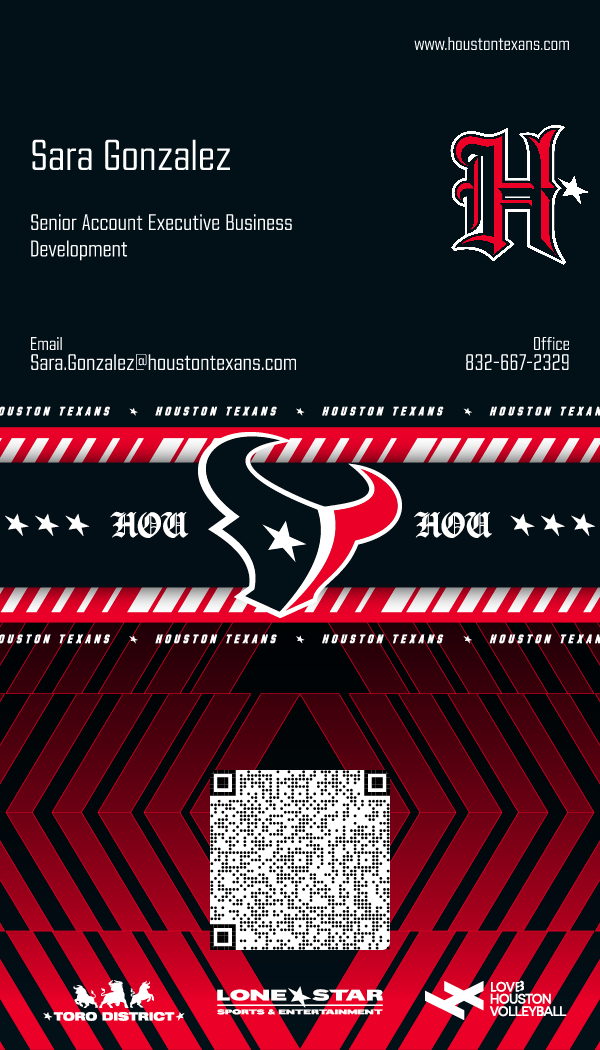
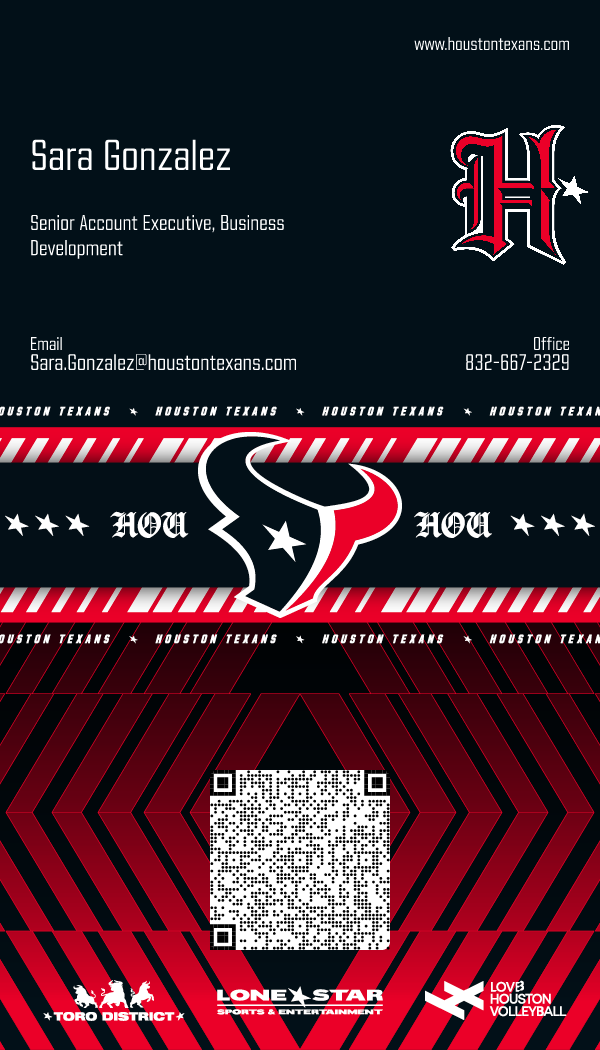
Regenerate card for Sara Gonzalez

Changed region(s): [[0.06, 0.1829, 0.48, 0.2438]]

diff --git a/p/e3164f3d.html b/p/e3164f3d.html
@@ -4,9 +4,9 @@
   <meta charset="UTF-8">
   <meta name="viewport" content="width=device-width, initial-scale=1.0">
   <title>Sara Gonzalez — Houston Texans</title>
-  <meta name="description" content="Contact Sara Gonzalez, Senior Account Executive Business Development at Houston Texans">
+  <meta name="description" content="Contact Sara Gonzalez, Senior Account Executive, Business Development at Houston Texans">
   <meta property="og:title" content="Sara Gonzalez — Houston Texans">
-  <meta property="og:description" content="Senior Account Executive Business Development">
+  <meta property="og:description" content="Senior Account Executive, Business Development">
   <link rel="preconnect" href="https://fonts.googleapis.com">
   <link href="https://fonts.googleapis.com/css2?family=Inter:wght@400;500;600;700&display=swap" rel="stylesheet">
   <!-- GA4 -->
@@ -60,7 +60,7 @@
   <div class="hero">
     <div class="hero-img"><img src="https://raw.githubusercontent.com/TexansDigital/texans-business-cards/main/Houston%20Texans%20Logo%20RGB_BULLHEAD%20FC.png" alt="" style="height:64px;object-fit:contain;"></div>
     <h1>Sara Gonzalez</h1>
-    <p class="sub">Senior Account Executive Business Development</p>
+    <p class="sub">Senior Account Executive, Business Development</p>
     <span class="org">Houston Texans</span>
   </div>
   <div class="ct">
@@ -97,7 +97,7 @@
   <script>
   function saveContact(){
     tr('save_contact');
[2 lines of base64/hex data omitted]
     var b=new Blob([vc],{type:'text/vcard;charset=utf-8'});
     var u=URL.createObjectURL(b);
     var a=document.createElement('a');
